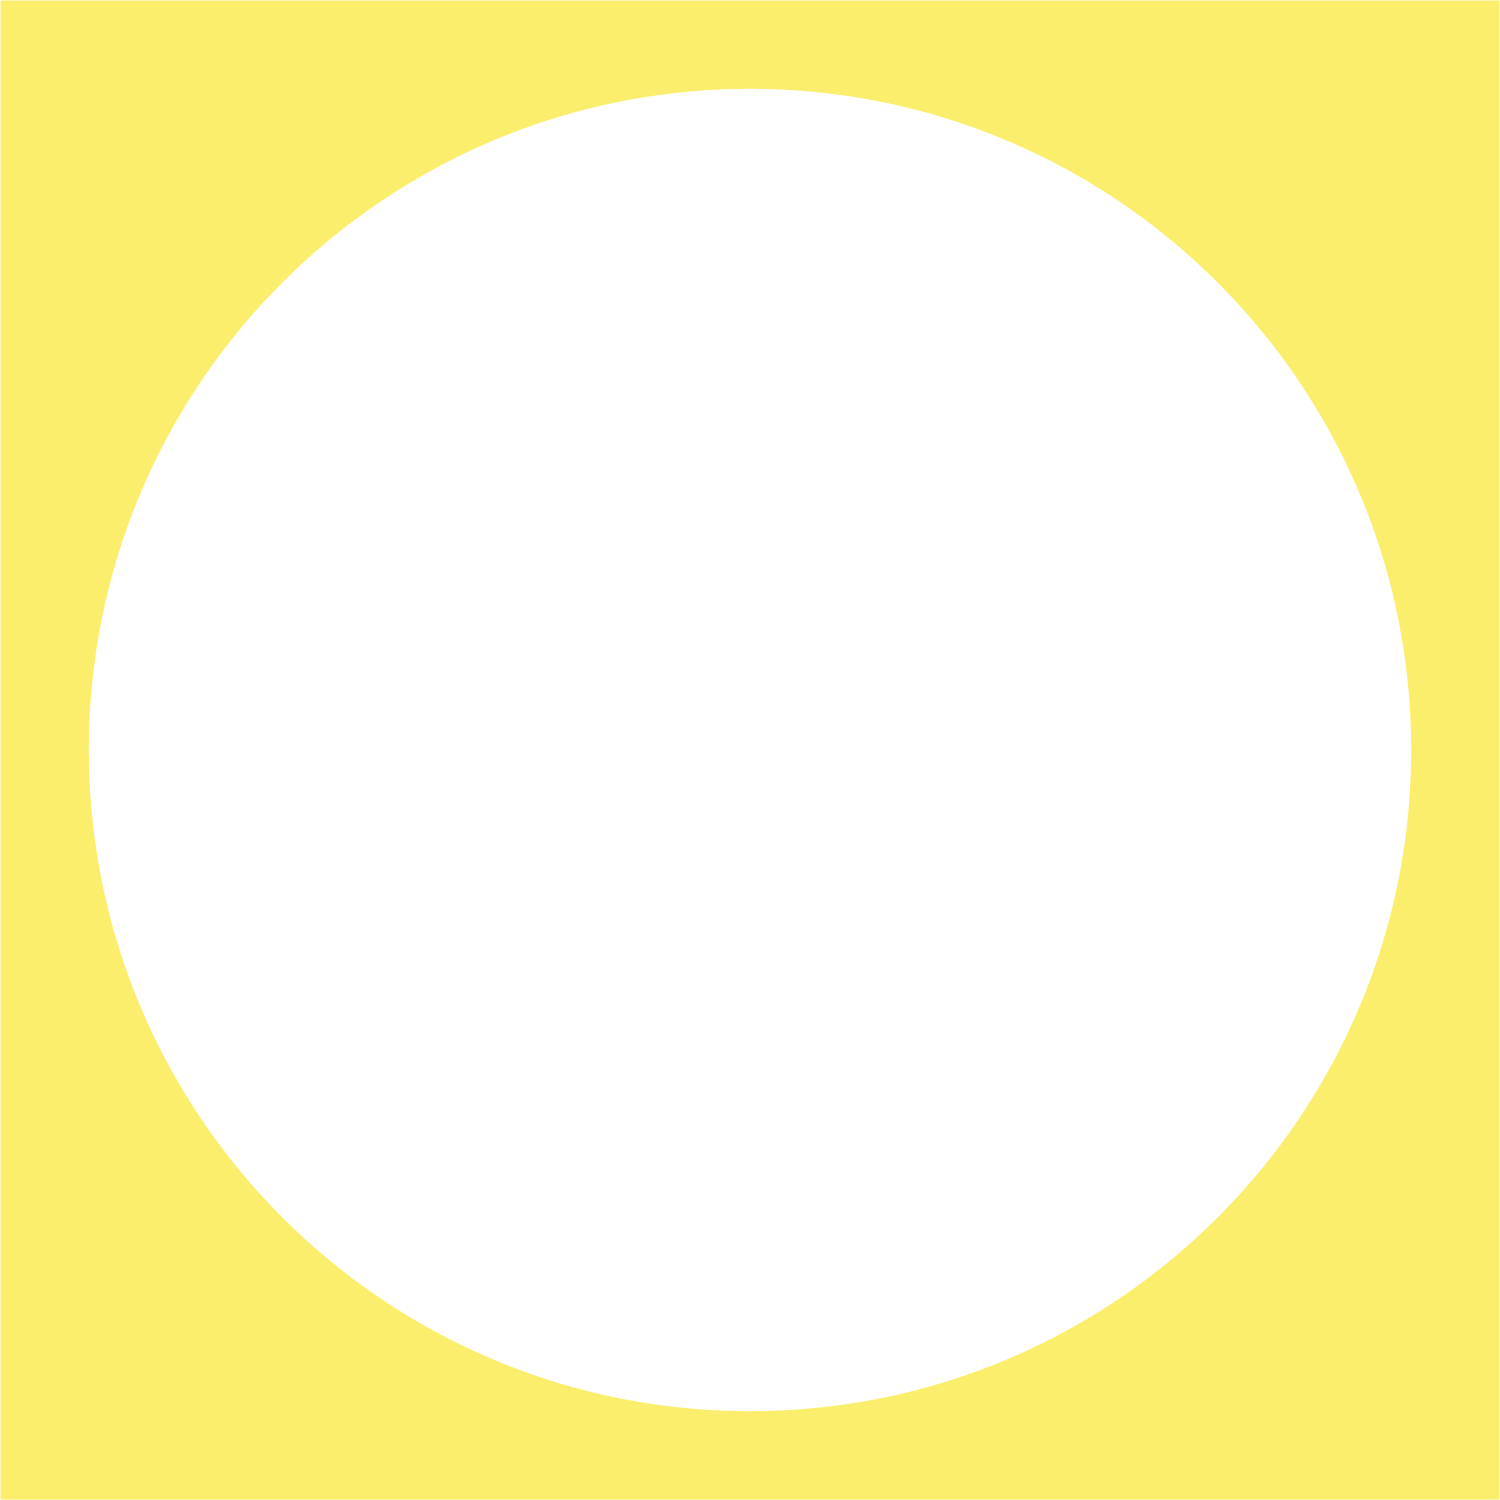
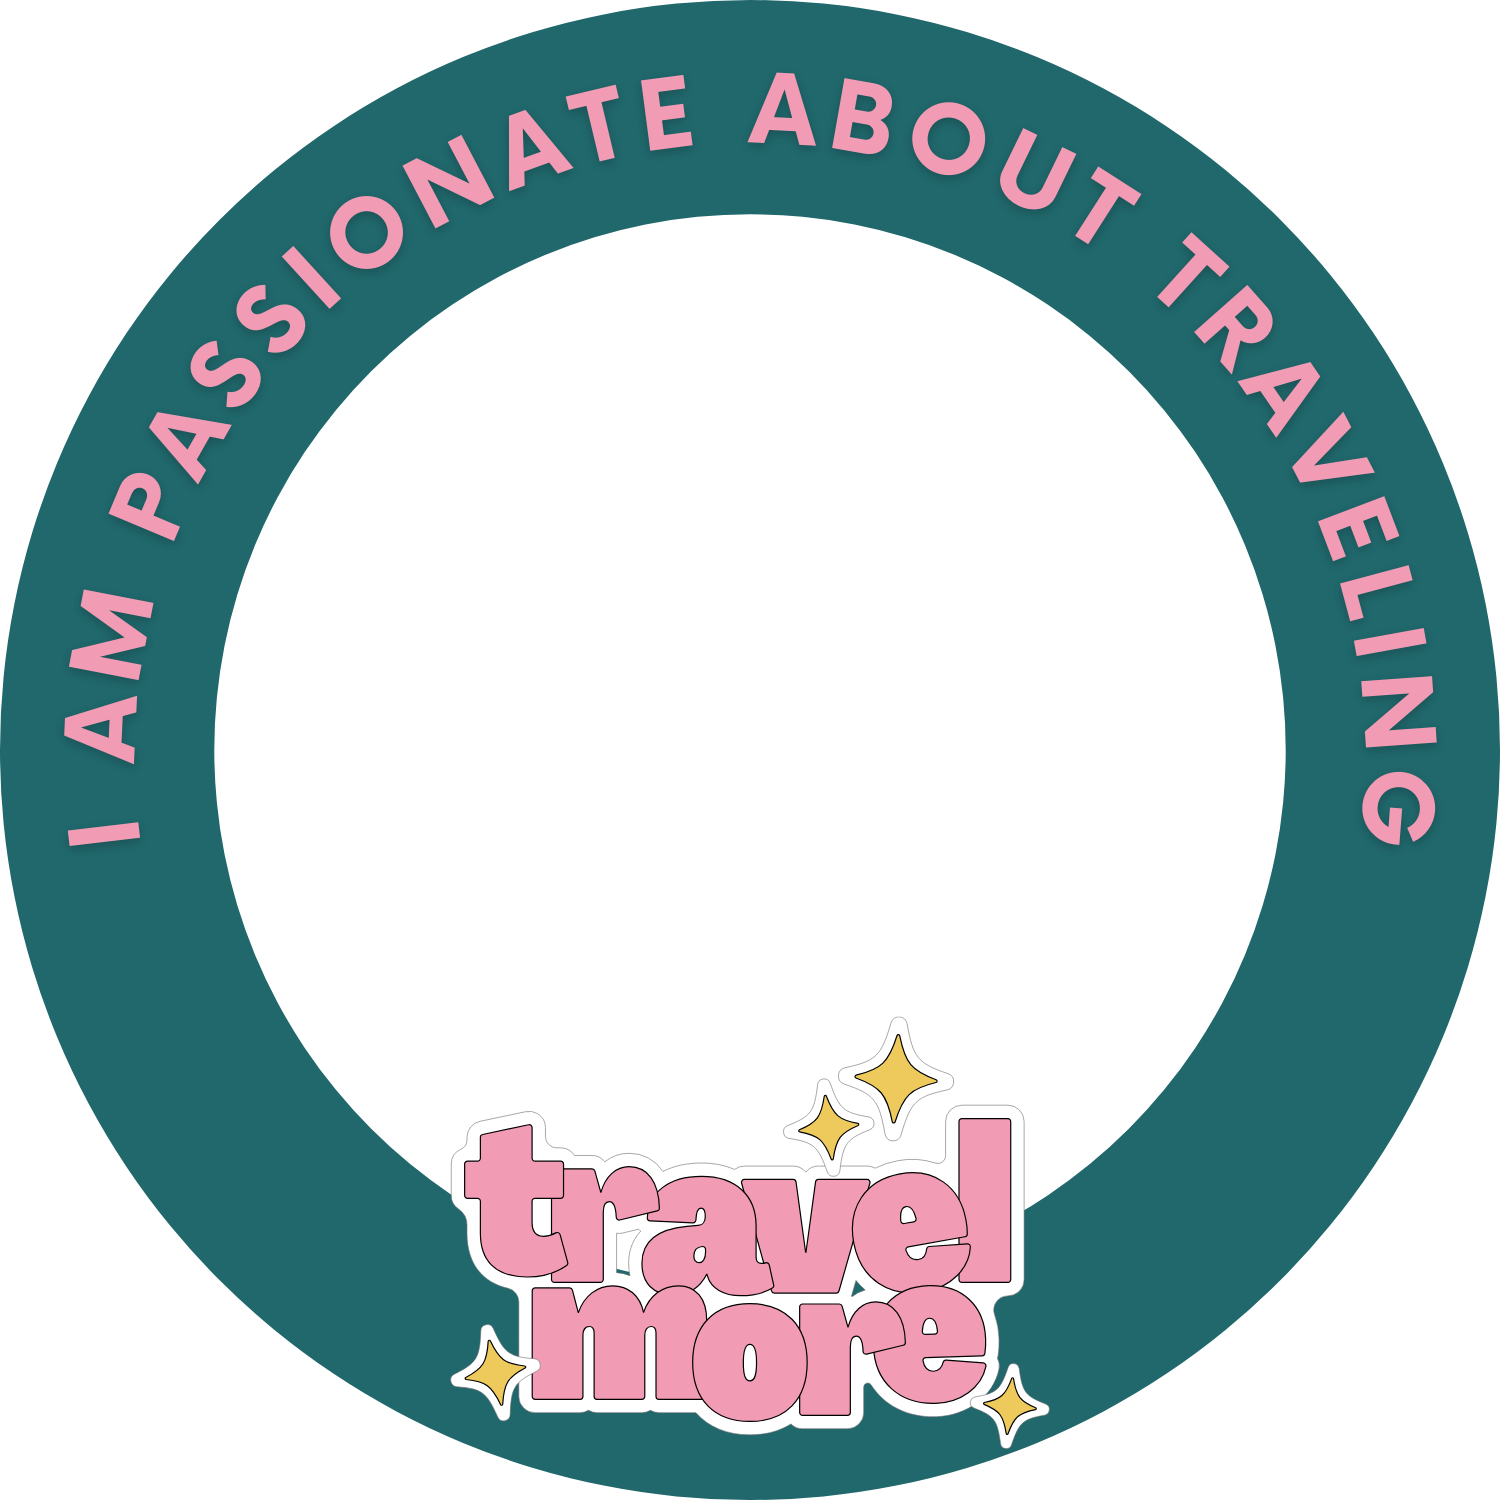
finished the styling and functionality of the app. I added placeholder frames for now to show the client how it works

diff --git a/index.html b/index.html
@@ -1,59 +1,175 @@
 <!DOCTYPE html>
 <html>
-
-<head>
-    <title>Photo Frame App</title>
+  <head>
+    <title>C|Life Easter Photo Frame App</title>
     <script src="https://ajax.googleapis.com/ajax/libs/jquery/3.5.1/jquery.min.js"></script>
     <script src="https://cdn.tailwindcss.com"></script>
     <script src="js/main.js"></script>
+  </head>
 
-</head>
+  <body style="background: #2c72ad">
+    <div class="relative bg-white md:min-h-screen">
+      <div class="mx-auto max-w-7xl lg:grid lg:grid-cols-12 lg:gap-x-8 lg:px-8">
+        <div
+          class="relative flex flex-col items-center justify-center py-12 lg:-mr-8 xl:absolute xl:inset-0 xl:mr-0"
+          style="
+            background-image: url('images/background.jpg');
+            background-position: center;
+            background-size: cover;
+            min-height: 100vh;
+          "
+        >
+          <img class="mb-5 h-11" src="images/logo-white.png" />
+          <div class="bg-transparent bg-transparent border border-white p-4">
+            <div
+              class="bg-white p-10 pb-20 sm:mx-auto sm:w-full sm:max-w-md min-w-[360px] relative"
+            >
+              <div class="col-span-full">
+                <div class="step-one">
+                  <button
+                    class="bg-slate-900 absolute top-0 right-0 w-full inline-flex justify-center items-center gap-x-2 px-3.5 py-3 text-center text-sm font-semibold text-white shadow-sm"
+                    type="button"
+                  >
+                    <!-- <svg
+                      xmlns="http://www.w3.org/2000/svg"
+                      fill="none"
+                      viewBox="0 0 24 24"
+                      stroke-width="1.5"
+                      stroke="currentColor"
+                      class="w-6 h-6"
+                    >
+                      <path
+                        stroke-linecap="round"
+                        stroke-linejoin="round"
+                        d="M17.982 18.725A7.488 7.488 0 0 0 12 15.75a7.488 7.488 0 0 0-5.982 2.975m11.963 0a9 9 0 1 0-11.963 0m11.963 0A8.966 8.966 0 0 1 12 21a8.966 8.966 0 0 1-5.982-2.275M15 9.75a3 3 0 1 1-6 0 3 3 0 0 1 6 0Z"
+                      />
+                    </svg> -->
+                    <img
+                      src="images/clifelogoicon.svg"
+                      class="max-h-7 border border-solid border-white-1 rounded-full px-2 py-1"
+                    />
 
-<body class="bg-slate-900">
-    <div class="p-10 mt-10 sm:mx-auto sm:w-full sm:max-w-md bg-white">
-        <div class="col-span-full">
-            <h2 class="font-black">Step 1:</h2>
-            <label for="cover-photo" class="block text-sm font-medium leading-6 text-gray-900">Upload Your Profile Photo</label>
-            <div id="drop-zone" class="mt-5 mb-5 flex justify-center rounded-lg border border-dashed border-gray-900/25 px-6 py-2 ">
-              <div class="text-center">
-                <svg class="mx-auto h-12 w-12 text-gray-300" viewBox="0 0 24 24" fill="currentColor" aria-hidden="true">
-                  <path fill-rule="evenodd" d="M1.5 6a2.25 2.25 0 012.25-2.25h16.5A2.25 2.25 0 0122.5 6v12a2.25 2.25 0 01-2.25 2.25H3.75A2.25 2.25 0 011.5 18V6zM3 16.06V18c0 .414.336.75.75.75h16.5A.75.75 0 0021 18v-1.94l-2.69-2.689a1.5 1.5 0 00-2.12 0l-.88.879.97.97a.75.75 0 11-1.06 1.06l-5.16-5.159a1.5 1.5 0 00-2.12 0L3 16.061zm10.125-7.81a1.125 1.125 0 112.25 0 1.125 1.125 0 01-2.25 0z" clip-rule="evenodd" />
-                </svg>
-                <div class="mt-4 flex text-sm leading-6 text-gray-600">
-                  <label for="upload" class="relative cursor-pointer rounded-md bg-white font-semibold text-indigo-600 focus-within:outline-none focus-within:ring-2 focus-within:ring-indigo-600 focus-within:ring-offset-2 hover:text-indigo-500">
-                    <span>Upload a file</span>
-                    <input id="upload" type="file" accept="image/*" class="sr-only"/>
-                  </label>
-                  <p class="pl-1">or drag and drop</p>
+                    Create Your Social Media Easter Frame
+                  </button>
+                  <h2 class="font-black text-3xl mt-5">Step 1:</h2>
+                  <label
+                    class="block text-sm font-medium leading-6 text-gray-900"
+                    for="cover-photo"
+                    >Upload Your Profile Photo</label
+                  >
+                  <div
+                    class="mb-5 mt-5 flex justify-center rounded-lg border border-dashed border-gray-900/25 px-6 py-2"
+                    id="drop-zone"
+                  >
+                    <div class="text-center">
+                      <svg
+                        class="mx-auto h-12 w-12 text-gray-300"
+                        aria-hidden="true"
+                        viewBox="0 0 24 24"
+                        fill="currentColor"
+                      >
+                        <path
+                          fill-rule="evenodd"
+                          d="M1.5 6a2.25 2.25 0 012.25-2.25h16.5A2.25 2.25 0 0122.5 6v12a2.25 2.25 0 01-2.25 2.25H3.75A2.25 2.25 0 011.5 18V6zM3 16.06V18c0 .414.336.75.75.75h16.5A.75.75 0 0021 18v-1.94l-2.69-2.689a1.5 1.5 0 00-2.12 0l-.88.879.97.97a.75.75 0 11-1.06 1.06l-5.16-5.159a1.5 1.5 0 00-2.12 0L3 16.061zm10.125-7.81a1.125 1.125 0 112.25 0 1.125 1.125 0 01-2.25 0z"
+                          clip-rule="evenodd"
+                        />
+                      </svg>
+                      <div class="mt-4 flex text-sm leading-6 text-gray-600">
+                        <label
+                          class="relative cursor-pointer rounded-md bg-white font-semibold text-indigo-600 focus-within:outline-none focus-within:ring-2 focus-within:ring-indigo-600 focus-within:ring-offset-2 hover:text-indigo-500"
+                          for="upload"
+                        >
+                          <span>Click here to upload</span>
+                          <input
+                            class="sr-only"
+                            id="upload"
+                            type="file"
+                            accept="image/*"
+                          />
+                        </label>
+                        <p class="pl-1">or drag and drop</p>
+                      </div>
+                      <p class="text-xs leading-5 text-gray-600">
+                        PNG, JPG, GIF up to 10MB
+                      </p>
+                    </div>
+                  </div>
                 </div>
-                <p class="text-xs leading-5 text-gray-600">PNG, JPG, GIF up to 10MB</p>
+              </div>
+              <div class="step-two hidden">
+                <!-- <input id="upload" type="file" accept="image/*"/><br> -->
+                <h2 class="font-black text-2xl mt-5">Step 2:</h2>
+                <label
+                  class="block text-sm font-medium leading-6 text-gray-900"
+                  for="cover-photo"
+                  >Select Your Favorite Easter Frame</label
+                >
+
+                <select
+                  class="w-full border border-gray-200 p-2.5"
+                  id="frameSelect"
+                >
+                  <option value="frame1">Frame 1</option>
+                  <option value="frame2">Frame 2</option>
+                  <option value="frame3">Frame 3</option>
+                  <!-- Add more frames as options here --></select
+                ><br />
+                <div class="h-[360px] max-w-[360px] mb-2 mt-7 rounded-full">
+                  <canvas
+                    class="h-auto min-h-[360px] min-w-[360px] w-full rounded-full bg-gray-100"
+                    id="canvas"
+                  ></canvas
+                  ><br />
+                </div>
+                <button
+                  class="absolute bottom-0 left-0 w-full mt-5 inline-flex w-full items-center justify-center gap-x-2 px-3.5 py-3.5 text-center text-sm font-semibold text-white shadow-sm hover:bg-indigo-500 focus-visible:outline focus-visible:outline-2 focus-visible:outline-offset-2 focus-visible:outline-indigo-600"
+                  id="download"
+                  type="button"
+                  style="background: #e15740"
+                >
+                  Download Your Image
+                  <svg
+                    xmlns="http://www.w3.org/2000/svg"
+                    fill="none"
+                    viewBox="0 0 24 24"
+                    stroke-width="1.5"
+                    stroke="currentColor"
+                    class="w-6 h-6"
+                  >
+                    <path
+                      stroke-linecap="round"
+                      stroke-linejoin="round"
+                      d="M3 16.5v2.25A2.25 2.25 0 0 0 5.25 21h13.5A2.25 2.25 0 0 0 21 18.75V16.5M16.5 12 12 16.5m0 0L7.5 12m4.5 4.5V3"
+                    />
+                  </svg>
+                </button>
+                <button
+                  class="bg-slate-900 absolute top-0 right-0 w-full inline-flex justify-center items-center gap-x-2 px-3.5 py-3 text-center text-sm font-semibold text-white shadow-sm hover:bg-slate-700 focus-visible:outline focus-visible:outline-2 focus-visible:outline-offset-2 focus-visible:outline-indigo-600"
+                  id="start"
+                  type="button"
+                >
+                  <svg
+                    xmlns="http://www.w3.org/2000/svg"
+                    fill="none"
+                    viewBox="0 0 24 24"
+                    stroke-width="1.5"
+                    stroke="currentColor"
+                    class="w-6 h-6"
+                  >
+                    <path
+                      stroke-linecap="round"
+                      stroke-linejoin="round"
+                      d="M10.5 19.5 3 12m0 0 7.5-7.5M3 12h18"
+                    />
+                  </svg>
+
+                  Start Over
+                </button>
               </div>
             </div>
+          </div>
         </div>
-        <!-- <input id="upload" type="file" accept="image/*" /><br> -->
-        <h2 class="font-black">Step 2:</h2>
-        <label for="cover-photo" class="block text-sm font-medium leading-6 text-gray-900">Select Your Easter Frame</label>
-
-
-        <select id="frameSelect" class="border border-gray-200 p-2.5 w-full">
-            <option value="#">Select A Frame</option>
-            <option value="frame1">Frame 1</option>
-            <option value="frame2">Frame 2</option>
-            <option value="frame3">Frame 3</option>
-            <!-- Add more frames as options here -->
-        </select><br>
-        <div class="max-w-[360px] h-[360px]">
-            <canvas id="canvas" class="mt-5 mb-5 bg-gray-100 w-full h-auto min-h-[360px] rounded-full"></canvas><br>
-        </div>
-        <button id="download" type="button" class="mt-5 inline-flex items-center gap-x-2 rounded-md bg-indigo-600 px-3.5 py-3.5 text-sm font-semibold text-white shadow-sm hover:bg-indigo-500 focus-visible:outline focus-visible:outline-2 focus-visible:outline-offset-2 focus-visible:outline-indigo-600 w-full text-center">
-            Download Your Image
-            <svg xmlns="http://www.w3.org/2000/svg" fill="none" viewBox="0 0 24 24" stroke-width="1.5" stroke="currentColor" class="w-6 h-6">
-                <path stroke-linecap="round" stroke-linejoin="round" d="m9 12.75 3 3m0 0 3-3m-3 3v-7.5M21 12a9 9 0 1 1-18 0 9 9 0 0 1 18 0Z" />
-            </svg>
-              
-          </button>    
+      </div>
     </div>
-
-</body>
-
+  </body>
 </html>

diff --git a/js/main.js b/js/main.js
@@ -36,6 +36,8 @@ $(document).ready(function() {
                 image.src = event.target.result;
             };
             reader.readAsDataURL(file);
+            $('.step-one').addClass('hidden');
+            $('.step-two').removeClass('hidden');
         }
     });
     // Load and draw the uploaded image
@@ -43,6 +45,7 @@ $(document).ready(function() {
         var reader = new FileReader();
         reader.onload = function(event) {
             image.onload = function() {
+                
                 canvas.width = 1500; // Set canvas dimensions to 360x360
                 canvas.height = 1500;
                 var hRatio = canvas.width / image.width;
@@ -56,19 +59,33 @@ $(document).ready(function() {
                 drawFrame(); // Draw frame over the image
             }
             image.src = event.target.result;
+            
         }
         reader.readAsDataURL(e.target.files[0]);
+        $('.step-one').addClass('hidden');
+            $('.step-two').removeClass('hidden');
     });
 
     // Function to draw the frame
     function drawFrame() {
-        var frameSrc = 'images/' + $('#frameSelect').val() +
-        '.png'; // Assuming frames are named 'frame1.png', 'frame2.png', etc.
+        var frameSrc = 'images/' + $('#frameSelect').val() + '.png'; // Assuming frames are named 'frame1.png', 'frame2.png', etc.
         frame.onload = function() {
+            // Clear the canvas and redraw the image before drawing the new frame
+            ctx.clearRect(0, 0, canvas.width, canvas.height);
+            // Redraw the image
+            var hRatio = canvas.width / image.width;
+            var vRatio = canvas.height / image.height;
+            var ratio = Math.max(hRatio, vRatio); // Use the larger ratio to cover the canvas
+            var centerShift_x = (canvas.width - image.width * ratio) / 2;
+            var centerShift_y = (canvas.height - image.height * ratio) / 2;
+            ctx.drawImage(image, 0, 0, image.width, image.height,
+                          centerShift_x, centerShift_y, image.width * ratio, image.height * ratio);
+            // Draw the new frame
             ctx.drawImage(frame, 0, 0, canvas.width, canvas.height);
-        }
+        };
         frame.src = frameSrc;
     }
+    
 
     // Update frame when a new frame is selected
     $('#frameSelect').change(function() {
@@ -83,5 +100,10 @@ $(document).ready(function() {
         document.body.appendChild(downloadLink);
         downloadLink.click();
         document.body.removeChild(downloadLink);
+    });
+    $('#start').click(function() {
+        // $('.step-two').addClass('hidden');
+        // $('.step-one').removeClass('hidden');
+        location.reload();
     });
 });
